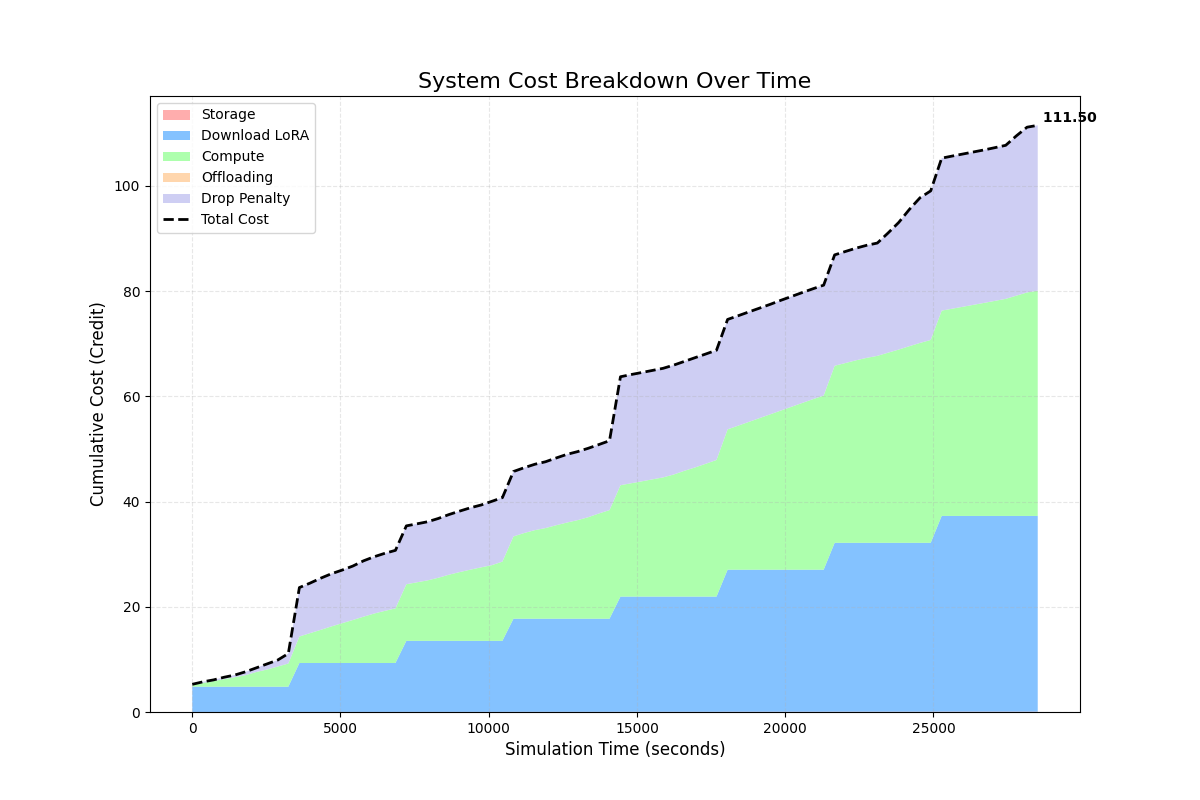
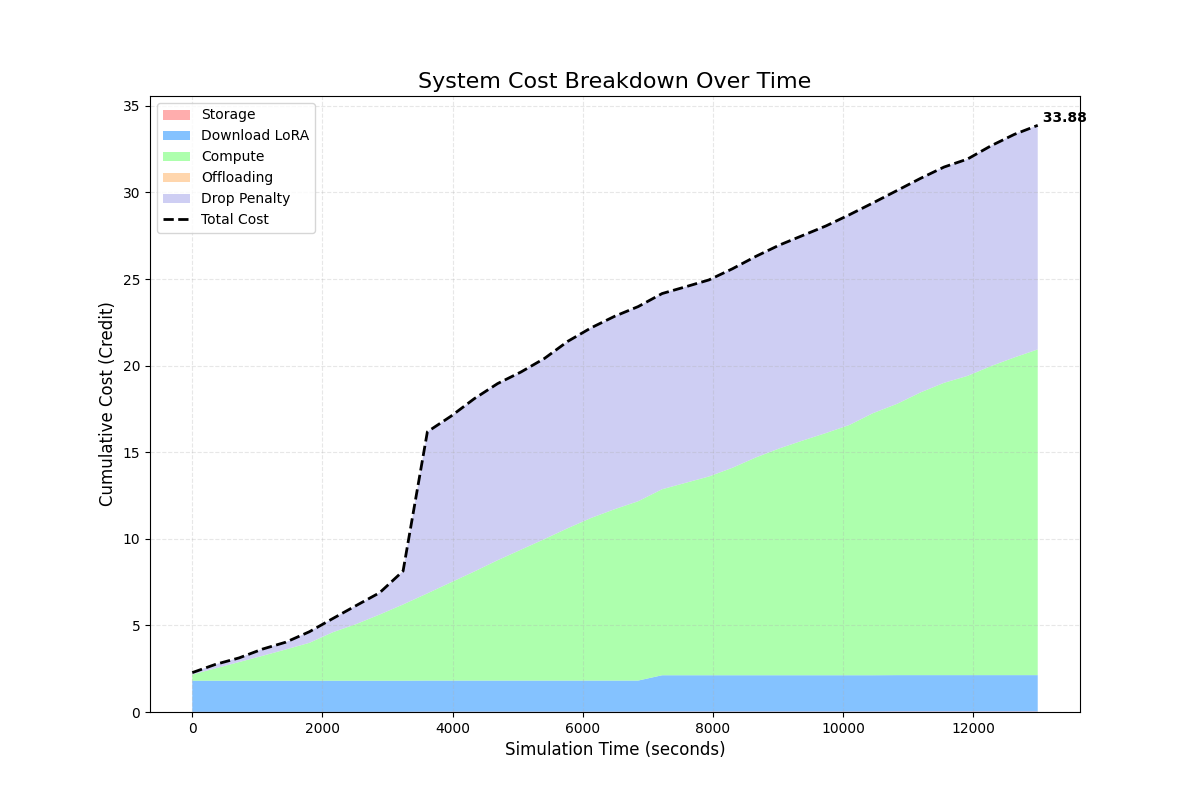
tmp

diff --git a/control_node_server_.py b/control_node_server_.py
@@ -43,7 +43,6 @@ CLUSTER_NAME = os.environ.get("CLUSTER_NAME", "cluster_1")
 CLUSTER_ID = CLUSTER_NAME
 EFO_URL = os.environ.get("EFO_URL", "http://127.0.0.1:9100")
 MY_URL = os.environ.get("CONTROL_NODE_URL", "http://127.0.0.1:9000")
-DISPATCH_STRATEGY = os.environ.get("DISPATCH_STRATEGY", "random")  # "random" or "greedy"
 
 limits = httpx.Limits(max_keepalive_connections=200, max_connections=HTTP_MAX_CONNECTIONS)
 client = httpx.AsyncClient(limits=limits, timeout=60.0)
@@ -297,7 +296,6 @@ async def handle_drop(req_data: dict, reason: str):
 # ============================================================
 async def scheduler_loop():
     global global_request_list, system_paused
-    logger.info(f"⏳ Baseline Scheduler loop started. Strategy: {DISPATCH_STRATEGY}")
     
     while True:
         try:
@@ -340,12 +338,7 @@ async def scheduler_loop():
                     # No capacity -> Drop
                     await handle_drop(req, "System Full (No Capacity)")
                 else:
-                    if DISPATCH_STRATEGY == "random":
-                        target_node = random.choice(candidates)
-                    elif DISPATCH_STRATEGY == "greedy":
-                        # Sort by URL ensures deterministic order for Greedy
-                        candidates.sort(key=lambda x: x.url)
-                        target_node = candidates[0]
+                    target_node = random.choice(candidates)
                 
                 if target_node:
                     # Step C: TTFT Constraint Check
@@ -397,7 +390,7 @@ async def lifespan(app: FastAPI):
             if resp.status_code == 200:
                 data = resp.json()
                 LORA_METADATA_TABLE.update(data.get("metadata", {}))
-                logger.info(f"✅ Registered. Strategy: {DISPATCH_STRATEGY}")
+                logger.info(f"✅ Registered.")
                 break
         except Exception: pass
         await asyncio.sleep(2.0)

diff --git a/cost.py b/cost.py
@@ -7,7 +7,7 @@ import pandas as pd
 try:
     from config import (
         COST_STORE_PER_GB, COST_DOWNLOAD_PER_GB,
-        COST_NET_TRAFFIC, COST_DROP_PENALTY, LORA_SIZE_GB,
+        COST_NET_TRAFFIC, COST_DROP_PENALTY2, LORA_SIZE_GB,
         COST_COMPUTE_PER_SEC
     )
     print("✅ Successfully imported config.py")
@@ -16,7 +16,7 @@ except ImportError:
     COST_STORE_PER_GB = 0.005
     COST_DOWNLOAD_PER_GB = 3.0
     COST_NET_TRAFFIC = 0.001
-    COST_DROP_PENALTY = 0.1
+    COST_DROP_PENALTY2 = 0.1
     LORA_SIZE_GB = 0.1
     COST_COMPUTE_PER_SEC = 0.001
 
@@ -59,7 +59,7 @@ def parse_logs(log_file):
 
                 # Penalty
                 drop_count = totals.get("total_drops", 0)
-                cost_penalty = drop_count * COST_DROP_PENALTY
+                cost_penalty = drop_count * COST_DROP_PENALTY2
 
                 total_cost = (
                     cost_storage

diff --git a/config.py b/config.py
@@ -59,6 +59,7 @@ COST_DOWNLOAD_PER_GB = 3   # kappa_inter: 跨區下載 1GB 模型的頻寬成本
 COST_INST_LOCAL = 0.001      # kappa_inst: 本地處理 1 個 Request 的算力成本
 COST_NET_TRAFFIC = 0.001     # kappa_net: 跨 Cluster 處理 1 個 Request 的流量成本
 COST_DROP_PENALTY = 0.01*10      # SP1 視角的 Drop 懲罰 (對應 Psi_drop)
+COST_DROP_PENALTY2 = 0.01*1      # SP1 視角的 Drop 懲罰 (對應 Psi_drop)
 COST_COMPUTE_PER_SEC = 0.001 # [新增] kappa_compute: 每秒的算力成本 (用於預測模型的成本估計)
 
 # 物理容量與限制
